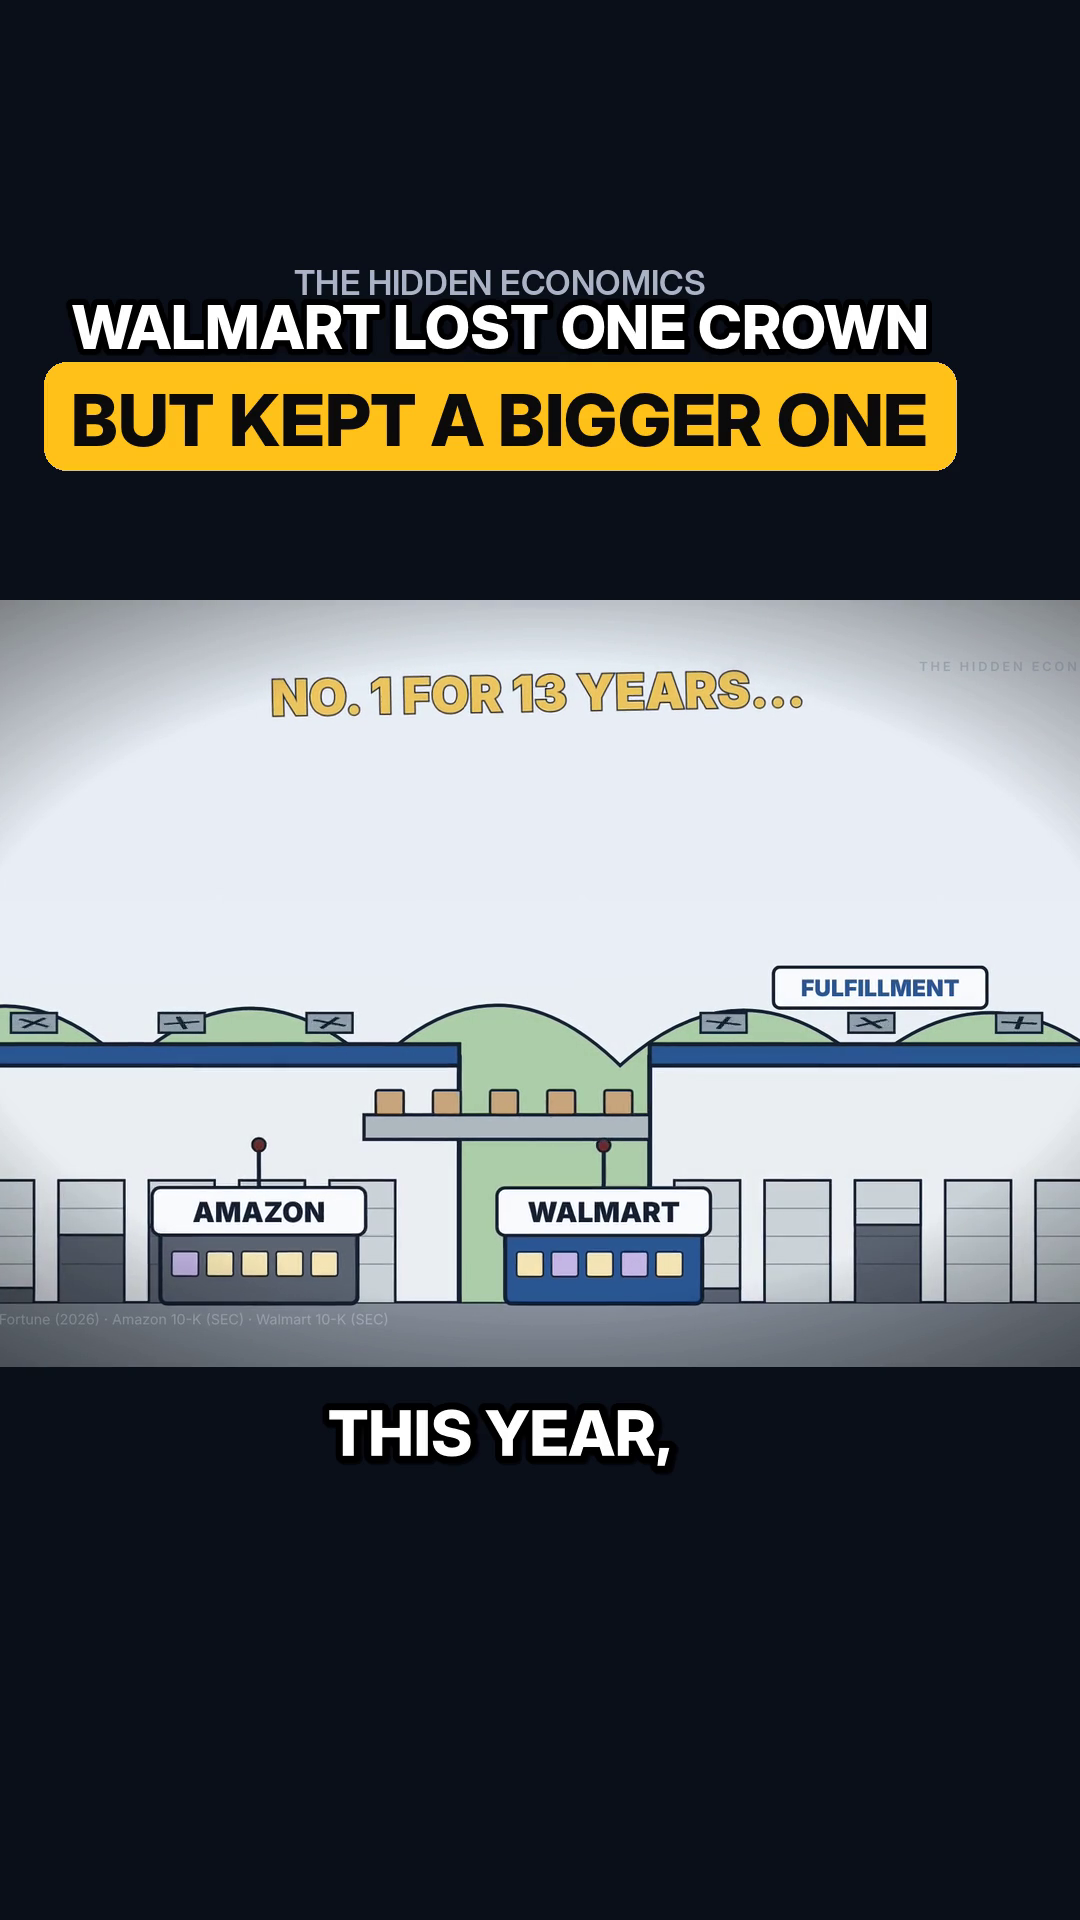
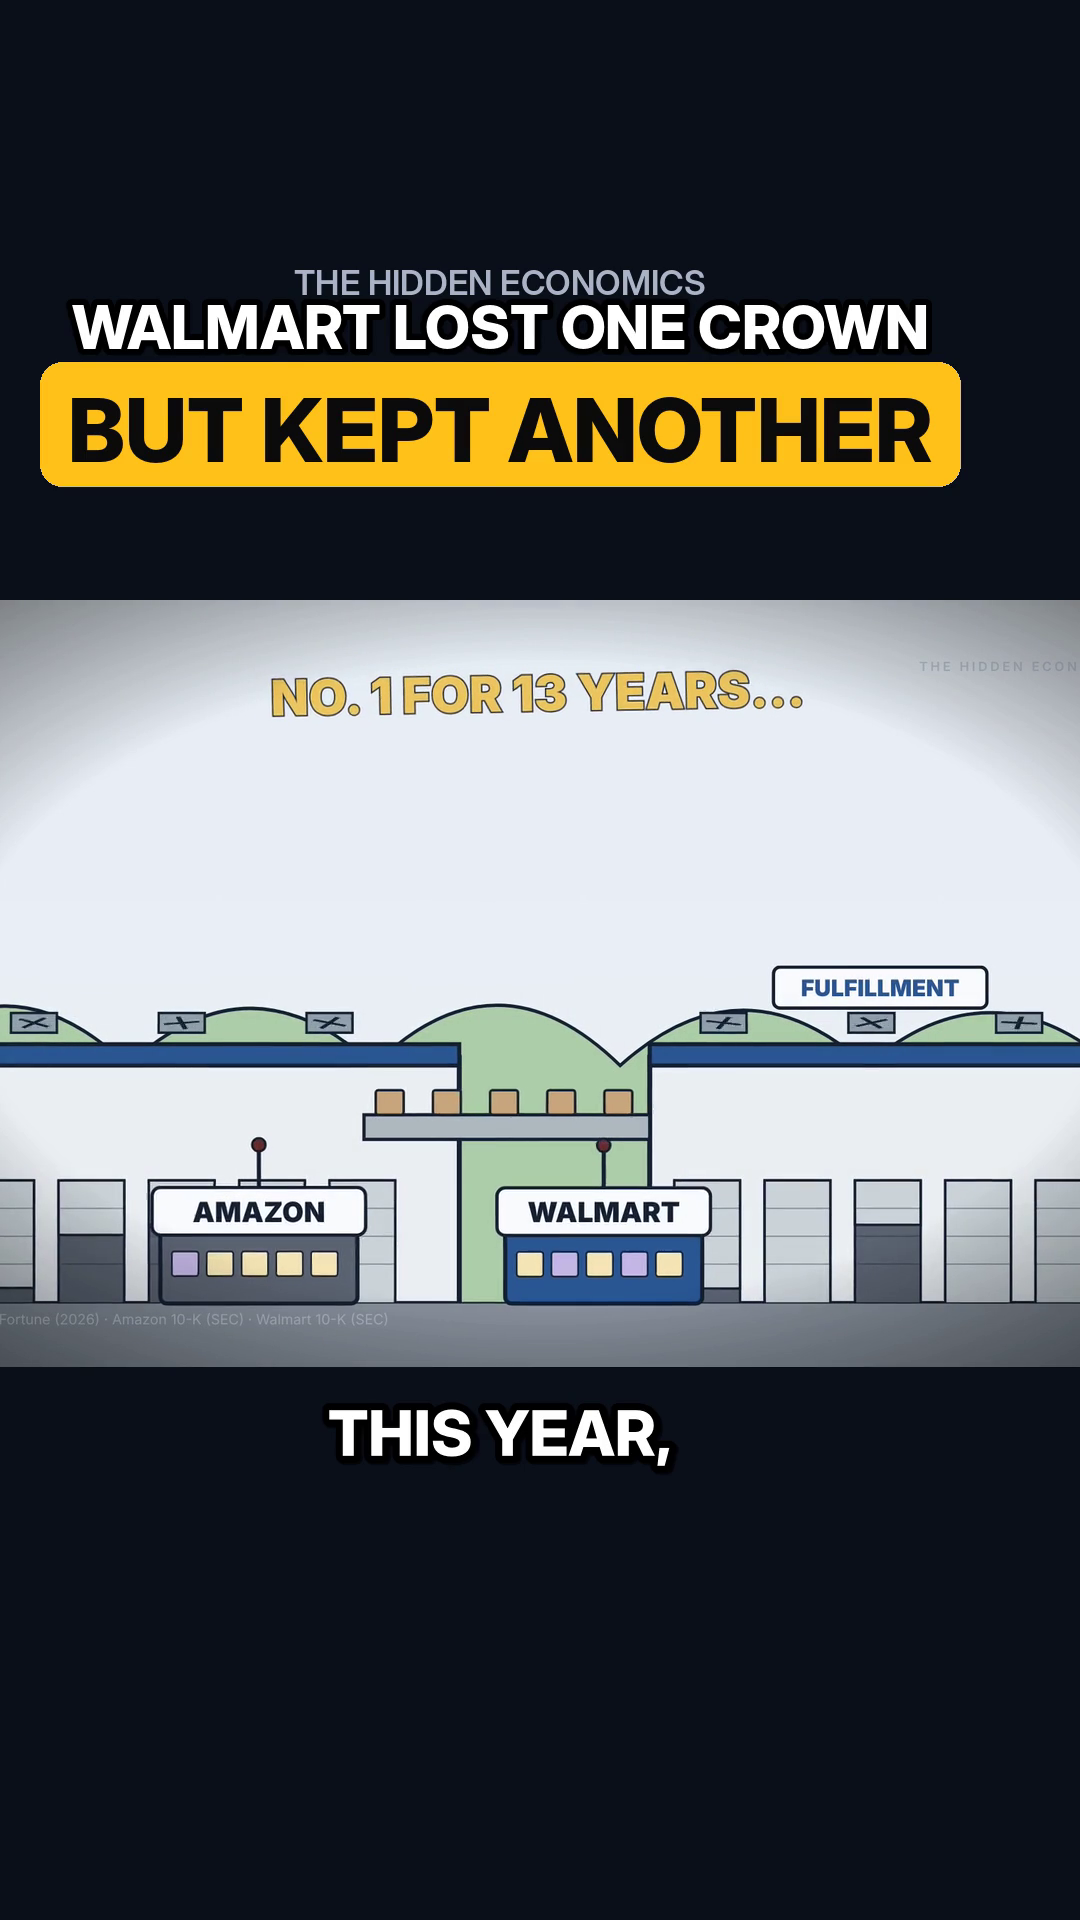
Ep 55 Walmart/Walton delivered: render 12:48 QC 0 errors, YouTube package, Short, queue row
Claude-Session: https://claude.ai/code/session_014jUfN7raNXxtX19HjW58d3

Changed region(s): [[0.0306, 0.1875, 0.9167, 0.2812]]

diff --git a/docs/PRODUCTION_QUEUE.md b/docs/PRODUCTION_QUEUE.md
@@ -93,3 +93,4 @@ v2 thumbnail (PunchThumb) and the presenter as main character from the start.
 | R1 | How SpaceX Actually Makes Money | **Delivered** (Ep 51, `docs/episodes/51-spacex`) | Public since 2026: S-1 and 10-Qs on SEC EDGAR are the primary sources. Segments (Starlink, launch, AI), Starship spending, government contracts. No logos; rockets and satellites generic. |
 | R2 | Why Nvidia Lost $428 Billion in Two Days | **Delivered** (Ep 52, facts to Nov 11; refresh after Nov 17-18 if wanted) | Owner asked 2026-11-11. Allegations attributed to NYT/FT; the woman is not named; no person drawn. Script now, render after Nov 17 earnings and the Nov 18 House briefing unless the owner wants it sooner. Owner visual direction (2026-11-11): very animated, retro-futuristic sci-fi cartoon comedy feel (original designs, no copying of any existing show's characters or look), few charts, mostly drawn scenes: chips as characters, a neon chip-city, smuggling crates on a cargo-ship route, a stock-price elevator falling, a boardroom of faceless silhouettes, a detective investigating. Only the minimum presenter chart required by QC. Inspiration allowed at genre level only: thick clean outlines, flat saturated colours, rubbery squash-and-stretch motion, deadpan sight gags, background signs with jokes, retro-futurist chrome and neon, tubes and flying cars. Not allowed: any existing show's characters, their silhouettes or proportions (big-eye designs, specific robot or alien designs), logos, title fonts, catchphrases, theme music, the delivery-ship or city layouts. All designs original. |
 | R3 | How Google Actually Makes Money | **Delivered** (Ep 54, 13:12, QC 0 errors; `docs/episodes/54-alphabet`) | Owner asked 2026-11-13 ("make the best video of your life"). Business-model explainer, NOT valuation (that is the Before You Buy edition). Primary sources: Alphabet FY2025 10-K, Q3 2026 10-Q and earnings call, quarterly releases, US v. Google (D.D.C.) liability and remedies opinions. Apple $20bn is the court's 2022 estimate, attributed; auction bids illustrative; our calculations labelled. New CartoonStage worlds: auction hall, toll road, living room, server farm, reservoir; items searchbar, barrace, jars, cashfalls; Pichai caricature. No logos. |
+| R4 | How One Family Still Controls Walmart | **Delivered** (Ep 55, 12:48, QC 0 errors; `docs/episodes/55-walmart-walton`) | Owner asked 2026-11-13. How the Walton family kept control: 1953 family partnership (Bloomberg citing the autobiography), 1970 public offering, Walton Enterprises + Walton Family Holdings Trust 44.11% (2026 proxy) with the irrevocable proxy, Dec 2024 handover to family trusts (13D), dividends ≈ $3.47bn/yr (our calc.), trust sales ≈ 69M shares (Forms 4, our tally), Walton v. Commissioner GRAT case, board (Penner, Steuart Walton, Furner CEO). "Largest family business" = No. 1 in the 2025 EY / St. Gallen index. New worlds: fivedime, trustroom, dccity; items pie, ballots, sapling; caricatures Sam, Rob, Penner, Steuart, Furner. No logos. |

diff --git a/docs/episodes/55-walmart-walton/youtube_package.md b/docs/episodes/55-walmart-walton/youtube_package.md
@@ -1,0 +1,49 @@
+# YouTube package: "How One Family Still Controls Walmart" (Episode 55)
+
+Prepared for manual publishing. Nothing has been uploaded. Video length 12:47.
+
+## Title options
+
+1. **How One Family Still Controls Walmart** (recommended)
+2. **How the Waltons Kept Control of Walmart for 70 Years**
+3. **Walmart Lost One Crown. It Still Holds Another**
+
+## Description (1800 chars, YouTube limit 5,000)
+
+```
+In 2026 Walmart lost its 13-year run as America's biggest company by revenue. But it is still number one in the 2025 EY and University of St. Gallen ranking of family businesses, almost twice the size of Volkswagen. How did one family keep control of a company that has been public since 1970? We follow Sam Walton's 1953 family partnership, the 1970 share sale, the two family entities that hold about 44% of Walmart today, the irrevocable proxy that lets one of them vote the whole block, the thin-margin machine that pays them roughly $3.5 billion a year in dividends (our calculation), and the risks ahead: share sales by the family trust, estate planning, succession and shareholder scrutiny.
+
+Every figure is sourced below: Walmart's fiscal 2026 10-K, 2026 and 2024 proxy statements, 10-Q, earnings releases and 8-Ks; Schedule 13D filings and Forms 4 of Walton Enterprises and the Walton Family Holdings Trust; the U.S. Tax Court; EY / University of St. Gallen; Fortune; Bloomberg (2013). Walmart's fiscal year ends January 31. Values marked "our calculation" are our own arithmetic; stake value is at the November 12, 2026 close. Not investment advice. Not affiliated with Walmart or the Walton family.
+
+Chapters
+0:00 The family business
+1:10 One store in Bentonville
+3:08 Going public
+4:30 The family vault
+6:38 The money machine
+9:30 The next generation
+12:12 The lesson
+
+Sources
+Main sources: Walmart Inc. (SEC filing); Walton Enterprises, LLC / Walton Family Holdings Trust (SEC filing); Walton Family Holdings Trust (SEC filings); SEC EDGAR; Walmart Inc.; Bloomberg News; United States Tax Court; EY / University of St. Gallen; Fortune Media; Amazon.com, Inc. (SEC filing); Yahoo Finance (market data).
+
+Narration: AI voice. Animation: original. Nothing in this video is financial advice.
+```
+
+## Chapters
+
+```
+0:00 The family business
+1:10 One store in Bentonville
+3:08 Going public
+4:30 The family vault
+6:38 The money machine
+9:30 The next generation
+12:12 The lesson
+```
+
+## Tags
+
+```
+Walmart, Walton family, Sam Walton, Walton Enterprises, Walton Family Holdings Trust, family business, estate tax, GRAT, Walmart stock, WMT, dividends, Greg Penner, Rob Walton, corporate governance, economics explained, The Hidden Economics
+```

diff --git a/docs/SHORTS_COPY_PASTE.md b/docs/SHORTS_COPY_PASTE.md
@@ -1127,3 +1127,22 @@ Watch the full story: "How Google Actually Makes Money" on The Hidden Economics.
 ```
 Google, Alphabet, Google ads, search auction, traffic acquisition cost, Apple default, US v Google, antitrust, economics, shorts, economics explained, The Hidden Economics
 ```
+
+## 55-walmart-walton
+
+**Title**
+```
+Walmart Lost One Crown. It Still Holds Another #shorts
+```
+**Description**
+```
+This year, Walmart lost a crown it had worn for thirteen years. Amazon passed it as America's biggest company by revenue, by less than four billion dollars. But in the latest EY and University of St. Gallen ranking of family-controlled companies, Walmart is number one, almost twice the size of Volkswagen.
+
+Watch the full story: "How One Family Still Controls Walmart" on The Hidden Economics. Every figure in it is sourced.
+
+#shorts #walmart #business #economics
+```
+**Tags**
+```
+Walmart, Walton family, family business, Fortune 500, Amazon, Volkswagen, EY family business index, Sam Walton, economics, shorts, economics explained, The Hidden Economics
+```

diff --git a/reports/walmart_quality_report.md b/reports/walmart_quality_report.md
@@ -2,7 +2,7 @@
 
 | Check | Result | Detail |
 |---|---|---|
-| File exists | PASS | /home/user/YouTube/output/how-one-family-still-controls-walmart/documentary/how-one-family-still-controls-walmart--documentary.mp4 (264.4 MB) |
+| File exists | PASS | /home/user/YouTube/output/how-one-family-still-controls-walmart/documentary/how-one-family-still-controls-walmart--documentary.mp4 (266.0 MB) |
 | Resolution 1920x1080 | PASS | 1920x1080 |
 | H.264 video | PASS | h264 High, yuv420p, 30/1 fps |
 | AAC audio | PASS | aac 48000 Hz, 2 ch |
@@ -22,7 +22,7 @@
 # QC report: how-one-family-still-controls-walmart / documentary (long_16x9)
 
 - Runtime: **767.83 s**
-- Video: 1920x1080 @ 30/1 h264, audio aac 48000 Hz, 264.4 MB
+- Video: 1920x1080 @ 30/1 h264, audio aac 48000 Hz, 266.0 MB
 - Loudness: -16.1 LUFS integrated, true peak -3.9 dBFS
 - Errors: **0**, warnings: **64**
 - Technical QC passed: **True**

diff --git a/docs/SHORTS.md b/docs/SHORTS.md
@@ -63,3 +63,4 @@ Built by `tools/make_shorts.py` from each episode's own opening hook (same narra
 | 52-nvidia-probe | Nvidia Lost About $428 Billion in Two Days | -$428 BILLION / IN TWO DAYS | 48 s | `docs/episodes/52-nvidia-probe/youtube-short/short_package.md` |
 | 53-nvidia-ceo-crisis | Could Nvidia's Board Push Out Its Founder? | NVIDIA'S CEO / OUT? | 60 s | `docs/episodes/53-nvidia-ceo-crisis/youtube-short/short_package.md` |
 | 54-alphabet | Google Paid Apple an Estimated $20 Billion for a Default | $20 BILLION / FOR A DEFAULT | 50 s | `docs/episodes/54-alphabet/youtube-short/short_package.md` |
+| 55-walmart-walton | Walmart Lost One Crown. It Still Holds Another | WALMART LOST ONE CROWN / BUT KEPT ANOTHER | 44 s | `docs/episodes/55-walmart-walton/youtube-short/short_package.md` |

diff --git a/docs/episodes/55-walmart-walton/youtube-short/short_package.md b/docs/episodes/55-walmart-walton/youtube-short/short_package.md
@@ -1,4 +1,4 @@
-# YouTube Short: "Walmart Lost One Crown. It Kept a Bigger One" (55-walmart-walton)
+# YouTube Short: "Walmart Lost One Crown. It Still Holds Another" (55-walmart-walton)
 
 Prepared for manual publishing. Nothing has been uploaded. File: `output/shorts/55-walmart-walton_short.mp4` (44 s, 1080x1920, captions burned in). Not committed (MP4).
 
@@ -7,7 +7,7 @@ Built by `tools/make_shorts.py` from the episode's own opening (2 narrated segme
 ## Title
 
 ```
-Walmart Lost One Crown. It Kept a Bigger One #shorts
+Walmart Lost One Crown. It Still Holds Another #shorts
 ```
 
 ## Description
@@ -30,7 +30,7 @@ shorts, economics explained, The Hidden Economics
 
 ```
 WALMART LOST ONE CROWN
-BUT KEPT A BIGGER ONE
+BUT KEPT ANOTHER
 ```
 
 ## Narration in the Short

diff --git a/docs/episodes/55-walmart-walton/README.md b/docs/episodes/55-walmart-walton/README.md
@@ -1,7 +1,7 @@
 # Episode 55: How One Family Still Controls Walmart (owner request, 2026-11-13)
 
 - Project: `projects/how-one-family-still-controls-walmart`; storyboard generator `tools/gen_walmart_storyboard.py`
-  (45 scenes; lint 0). Narration ≈ 9,500 characters (target ≈ 750 s).
+  (45 scenes; lint 0). Runtime 12:48 (767.8 s), QC 0 errors, no freeze > 5 s, -16.1 LUFS; TTS US$0.29 (re-render 0 paid calls).
 - New engine pieces: sets `fivedime` (1950s small-town square with a variety store; a 1960s discount store rises behind),
   `trustroom` (family vault room; vault shelves thin out as the trust sells), `dccity` (distribution-centre city with
   working docks, conveyor bridge, generic semi-trucks, big-box store); items `pie`, `ballots`, `sapling`; caricature

diff --git a/research/walmart_sources.md b/research/walmart_sources.md
@@ -1,6 +1,6 @@
 # Research dossier - How One Family Still Controls Walmart
 
-Generated 2026-11-13T12:40:47+00:00. Status ladder: data_derived and human_verified are publishable; source_located means located by web research, not yet read in full by a named reviewer. Reference period = the year/date the statistic describes.
+Generated 2026-11-13T13:48:59+00:00. Status ladder: data_derived and human_verified are publishable; source_located means located by web research, not yet read in full by a named reviewer. Reference period = the year/date the statistic describes.
 
 ## Sources
 
